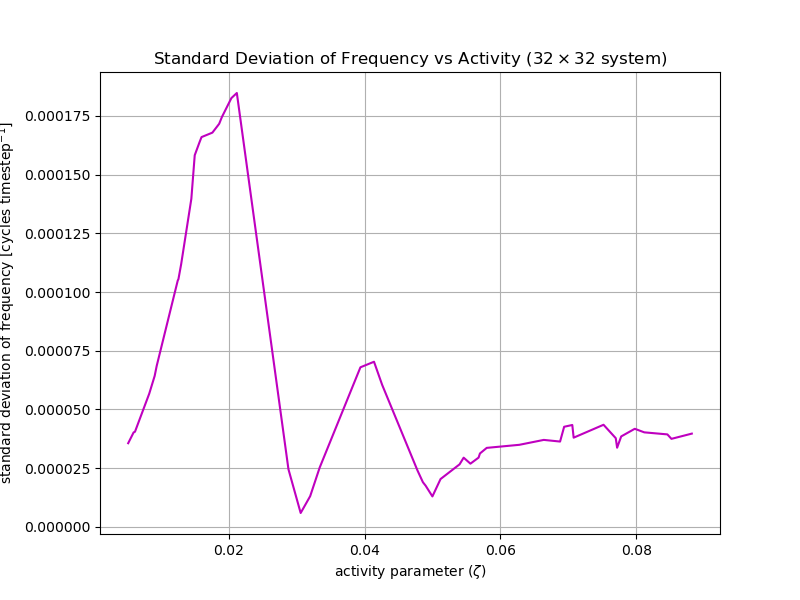
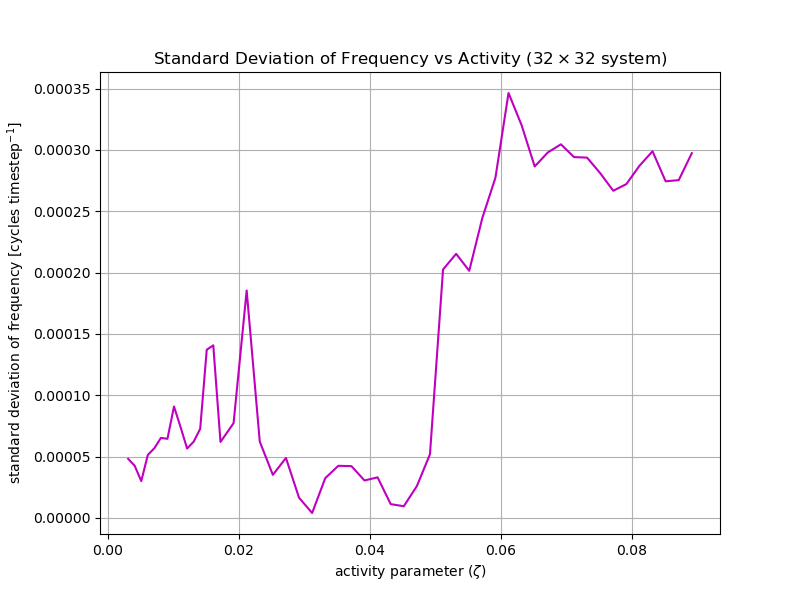
fixed SD frequency code, made new graphs

diff --git a/fourier.py b/fourier.py
@@ -10,15 +10,8 @@ def get_data(directory, spacing=1):
     zeta = []
     velocity_list = []
     timestep_list = []
-    i = -1
 
     for vel_file in directory.rglob("velocity_*.dat"):
-        # Check if the current index is a multiple of the spacing
-        # Note: this works equivalently to data[::spacing]
-        i += 1
-        if i % spacing != 0:
-            continue
-
         # Extract the float number from the filename
         filename = vel_file.name  # e.g., "velocity_.002.dat"
         #print(f"Processing file: {filename}")
@@ -38,8 +31,13 @@ def get_data(directory, spacing=1):
 
         else:
             print(f"Warning: No valid data found in file {vel_file.name}")
+    
+    order = np.argsort(zeta)
+    zeta = np.array(zeta)[order]
+    velocity_list = [velocity_list[i] for i in order]
+    timestep_list = [timestep_list[i] for i in order]
 
-    return np.array(zeta), np.array(timestep_list), np.array(velocity_list)
+    return zeta[::spacing], timestep_list[::spacing], velocity_list[::spacing]
 
 def frequency_analysis(z, t_list, v_list):
     """Perform Fourier analysis to find the standard deviation of the frequency spectrum for each zeta value."""
@@ -54,28 +52,33 @@ def frequency_analysis(z, t_list, v_list):
 
         # Perform Fourier Transform
         FT = fft.rfft(v)
+        FT[0] = 0  # Remove zero-frequency component
+        FT = np.abs(FT)
         nu = fft.rfftfreq(N, dt)
 
         # Find average frequency <nu>, average square frequency <nu^2>
-        avg_nu = np.sum(nu * np.abs(FT)**2) / np.sum(np.abs(FT)**2)
-        avg_nu2 = np.sum(nu**2 * np.abs(FT)**2) / np.sum(np.abs(FT)**2)
+        sum_FT_squared = np.sum(FT**2)
+        
+        if sum_FT_squared == 0:
+            print(f"Warning: Sum of FT^2 is {sum_FT_squared} for zeta={zeta}. Signal likely too constant.")
+            avg_nu = avg_nu2 = 0
+            start = i+1
+        else:
+            avg_nu = np.sum(nu * FT**2) / sum_FT_squared
+            avg_nu2 = np.sum(nu**2 * FT**2) / sum_FT_squared
 
         # Find standard deviation of frequency spectrum
         SD_nu = np.sqrt(avg_nu2 - avg_nu**2)
 
         SD_freq.append([zeta, SD_nu])
-
-    return SD_freq # [0]: zeta, [1]: SD of frequency
+    
+    return SD_freq[start:] # [0]: zeta, [1]: SD of frequency
 
 def plot_SD_freq(SD_freq):
     """Plot standard deviation of frequency vs activity parameter"""
     SD_freq = np.array(SD_freq)
     z = SD_freq[:, 0]
     SD_nu = SD_freq[:, 1]
-    
-    order = np.argsort(z)
-    z = z[order]
-    SD_nu = SD_nu[order]
 
     plt.figure(figsize=(8, 6))
     plt.plot(z, SD_nu, color='m')
@@ -86,7 +89,7 @@ def plot_SD_freq(SD_freq):
     plt.show()
 
 if __name__ == "__main__":
-    system = "64"
+    system = "32"
     local_path = Path(__file__).parent / f"velocity vs time {system}"
     
     if system == "32":
